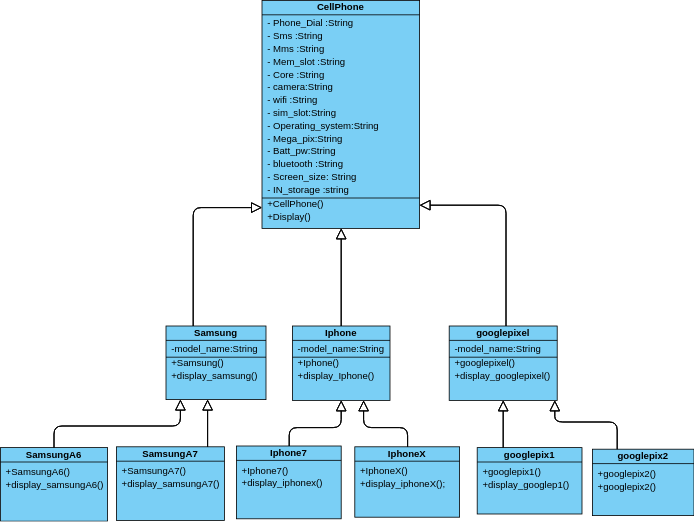
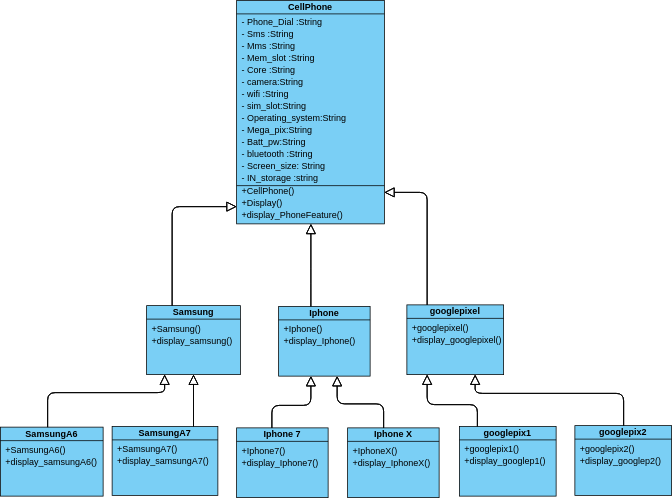
Diagram change

Changed region(s): [[0.0, 0.0, 1.0, 1.0]]

diff --git a/OPPAssignment.cpp b/OPPAssignment.cpp
@@ -31,6 +31,18 @@ class CellPhone
 		cout<<"Camera service\t  ::"<<camera<<endl;
 		cout<<"Wifi service\t  ::"<<wifi<<endl;
 
+	}
+
+	void display_PhoneFeature()
+	{
+		cout <<"Sim slot\t\t::"<<sim_slot<<endl;
+		cout<<"Operationg System\t::"<<Operating_system<<endl;
+		cout<<"Screen size\t\t::"<<Screen_size<<endl;
+		cout<<"Inernal Storage\t\t::"<<IN_Storage<<endl;
+		cout<<"Battery Power\t\t::"<<Batt_pw<<endl;
+		cout<<"Camera Mega Pixel\t::"<<Mega_pix<<endl;
+		cout<<"Bluetooh Service \t::"<<bluetooh<<endl;
+		cout<<endl;
 	}		
 
 };
@@ -69,14 +81,8 @@ class googlepix1 : public googlepixel
  	{
 		
 		cout <<"\n*** google pixel 1 Features ***\n" ;
-		cout <<"Sim slot\t\t::"<<sim_slot<<endl;
-		cout<<"Operationg System\t::"<<Operating_system<<endl;
-		cout<<"Screen size\t\t::"<<Screen_size<<endl;
-		cout<<"Inernal Storage\t\t::"<<IN_Storage<<endl;
-		cout<<"Battery Power\t\t::"<<Batt_pw<<endl;
-		cout<<"Camera Mega Pixel\t::"<<Mega_pix<<endl;
-		cout<<"Bluetooh Service \t::"<<bluetooh<<endl;
-		cout<<endl;
+		display_PhoneFeature();
+		
  	}
 };
 
@@ -98,14 +104,7 @@ class googlepix2 : public googlepixel
  	{
 		
 		cout <<"\n*** google pixel 2 Features ***\n" ;
-		cout <<"Sim slot\t\t::"<<sim_slot<<endl;
-		cout<<"Operationg System\t::"<<Operating_system<<endl;
-		cout<<"Screen size\t\t::"<<Screen_size<<endl;
-		cout<<"Inernal Storage\t\t::"<<IN_Storage<<endl;
-		cout<<"Battery Power\t\t::"<<Batt_pw<<endl;
-		cout<<"Camera Mega Pixel\t::"<<Mega_pix<<endl;
-		cout<<"Bluetooh Service \t::"<<bluetooh<<endl;
-		cout<<endl;
+		display_PhoneFeature();
  	}
 };
 
@@ -143,14 +142,7 @@ public:
  	void display_iphone7()
  	{
 	cout<<"******* Apple iPhone 7  ******\n";
-	cout <<"Sim slot\t\t::"<<sim_slot<<endl;
-	cout<<"Operationg System\t::"<<Operating_system<<endl;
-	cout<<"Screen size\t\t::"<<Screen_size<<endl;
-	cout<<"Inernal Storage\t\t::"<<IN_Storage<<endl;
-	cout<<"Battery Power\t\t::"<<Batt_pw<<endl;
-	cout<<"Camera Mega Pixel\t::"<<Mega_pix<<endl;
-	cout<<"Bluetooh Service \t::"<<bluetooh<<endl;
-	cout<<endl;
+	display_PhoneFeature();
  	}
 
 };
@@ -171,14 +163,7 @@ public:
  	void display_iphoneX()
  	{
 	cout<<"******* Apple iPhone X ******\n";
-	cout <<"Sim slot\t\t::"<<sim_slot<<endl;
-	cout<<"Operationg System\t::"<<Operating_system<<endl;
-	cout<<"Screen size\t\t::"<<Screen_size<<endl;
-	cout<<"Inernal Storage\t\t::"<<IN_Storage<<endl;
-	cout<<"Battery Power\t\t::"<<Batt_pw<<endl;
-	cout<<"Camera Mega Pixel\t::"<<Mega_pix<<endl;
-	cout<<"Bluetooh Service \t::"<<bluetooh<<endl;
-	cout<<endl;
+	display_PhoneFeature();
  	}
 
 };
@@ -216,14 +201,7 @@ class SamsungA6 : public Samsung
 	void display_samsungA6()
  	{
 	cout<<"******* Samsung Galaxy A6 ******\n";
-	cout <<"Sim slot\t\t::"<<sim_slot<<endl;
-	cout<<"Operationg System\t::"<<Operating_system<<endl;
-	cout<<"Screen size\t\t::"<<Screen_size<<endl;
-	cout<<"Inernal Storage\t\t::"<<IN_Storage<<endl;
-	cout<<"Battery Power\t\t::"<<Batt_pw<<endl;
-	cout<<"Camera Mega Pixel\t::"<<Mega_pix<<endl;
-	cout<<"Bluetooh Service \t::"<<bluetooh<<endl;
-	cout<<endl;
+	display_PhoneFeature();
  	}
 };
 class SamsungA7 : public Samsung
@@ -242,15 +220,7 @@ class SamsungA7 : public Samsung
 	void display_samsungA7()
  	{
 	cout<<"******* Samsung Galaxy A7 ******\n";
-
-	cout <<"Sim slot\t\t::"<<sim_slot<<endl;
-	cout<<"Operationg System\t::"<<Operating_system<<endl;
-	cout<<"Screen size\t\t::"<<Screen_size<<endl;
-	cout<<"Inernal Storage\t\t::"<<IN_Storage<<endl;
-	cout<<"Battery Power\t\t::"<<Batt_pw<<endl;
-	cout<<"Camera Mega Pixel\t::"<<Mega_pix<<endl;
-	cout<<"Bluetooh Service \t::"<<bluetooh<<endl;
-	cout<<endl;
+	display_PhoneFeature();
  	}
 };
 
